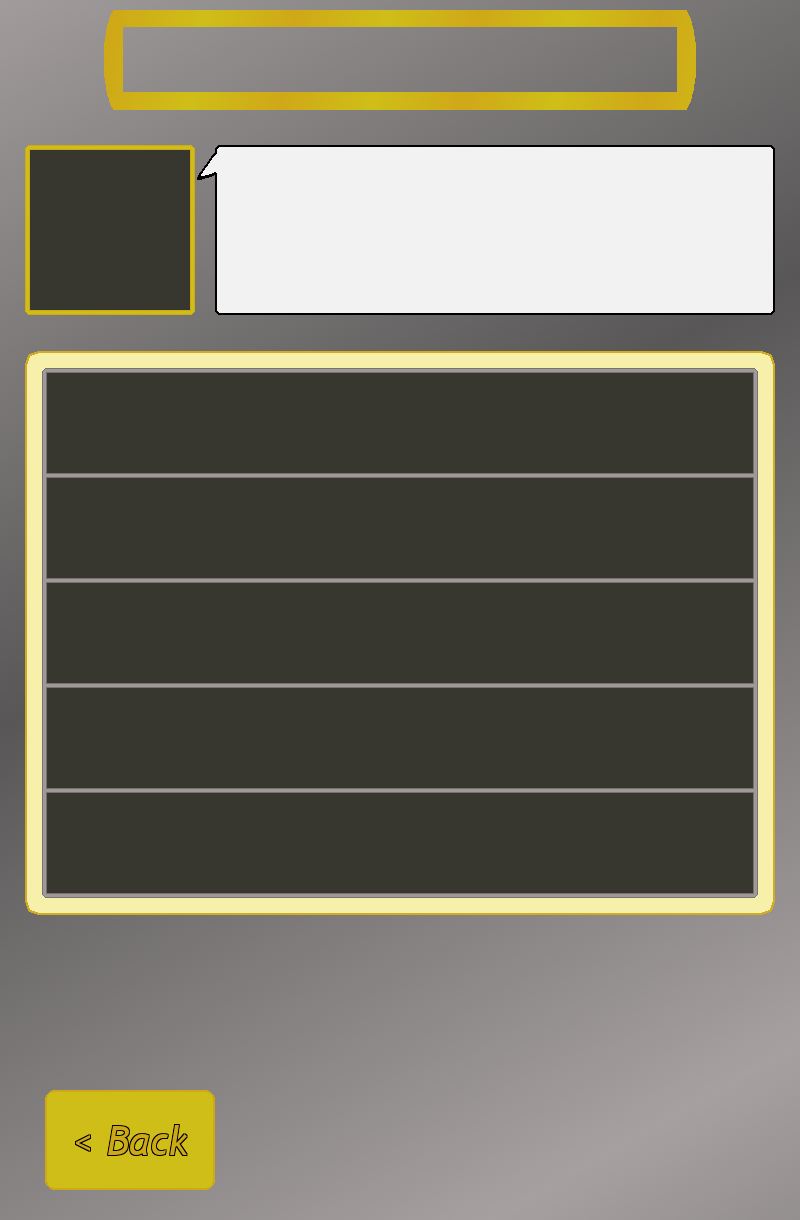
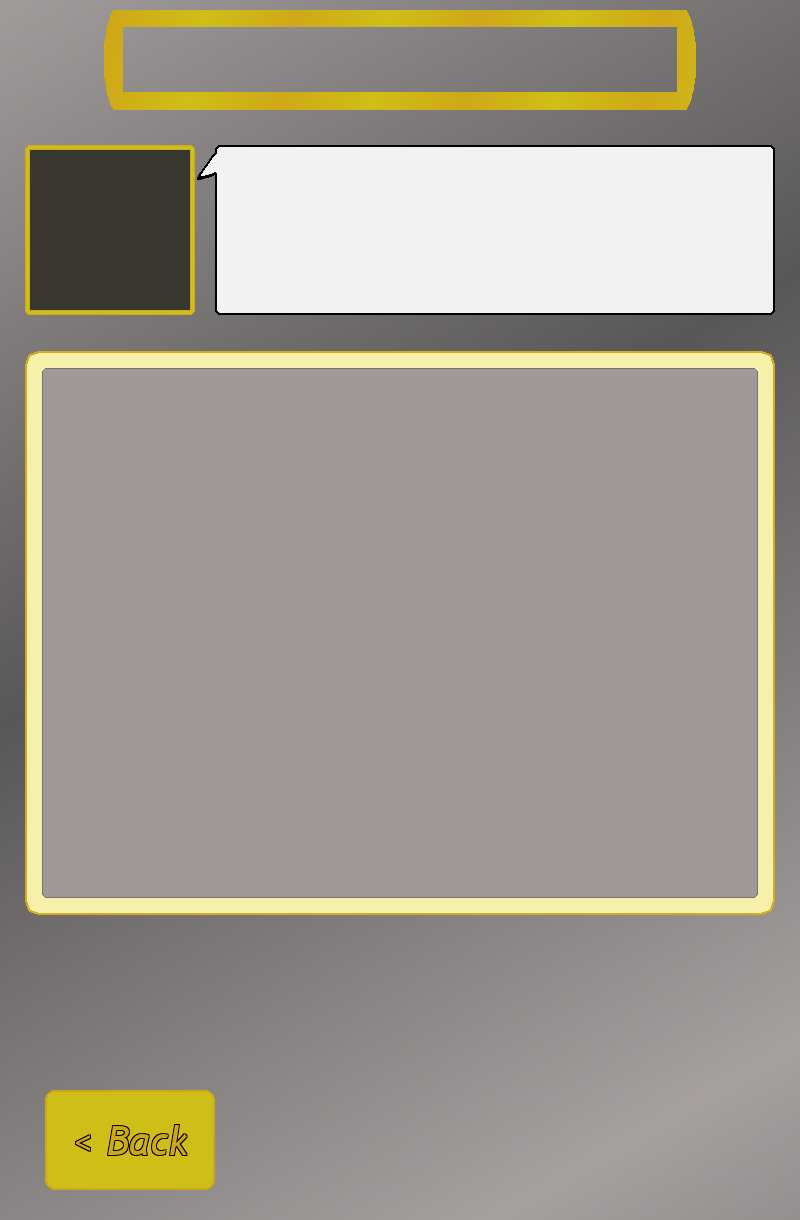
Recruiting Screens only show boxes for actual recruit requirements

diff --git a/app/src/main/java/ultrapoulet/wifeygame/screens/RecruitingScreen.java b/app/src/main/java/ultrapoulet/wifeygame/screens/RecruitingScreen.java
@@ -104,7 +104,17 @@ public class RecruitingScreen extends Screen {
         this.requirementButtons = new ButtonList();
         info = recruit.getRecruitingInfo();
         for(int i = 0; i < info.getRequirements().size(); i++){
-            requirementButtons.addButton(new Button(REQUIREMENT_LEFT_X, REQUIREMENT_RIGHT_X, REQUIREMENT_TOP_Y  + (REQUIREMENT_OFFSET_Y * i), REQUIREMENT_BOT_Y  + (REQUIREMENT_OFFSET_Y * i), true, info.getRequirements().get(i).getDescription()));
+            requirementButtons.addButton(
+                new Button(
+                    REQUIREMENT_LEFT_X,
+                    REQUIREMENT_RIGHT_X,
+                    REQUIREMENT_TOP_Y  + (REQUIREMENT_OFFSET_Y * i),
+                    REQUIREMENT_BOT_Y  + (REQUIREMENT_OFFSET_Y * i),
+                    true,
+                    info.getRequirements().get(i).getDescription(),
+                    Assets.RecruitingHolder
+                )
+            );
         }
 
         titlePaint = new Paint();
@@ -174,6 +184,8 @@ public class RecruitingScreen extends Screen {
         }
 
         basicButtons.drawImage(g);
+
+        requirementButtons.drawImage(g);
 
         ArrayList<RecruitRequirement> reqs = info.getRequirements();
         for (int i = 0; i < reqs.size(); i++) {

diff --git a/app/src/main/java/ultrapoulet/wifeygame/Assets.java b/app/src/main/java/ultrapoulet/wifeygame/Assets.java
@@ -110,6 +110,7 @@ public class Assets {
     public static Image RecruitingScreen;
     public static Image RecruitingButtonEnable, RecruitingButtonDisable;
     public static Image CheckboxComplete, CheckboxIncomplete;
+    public static Image RecruitingHolder;
 
     //Dialog Stuff
     public static Image AbsAdjustableDialogTop;
@@ -278,6 +279,7 @@ public class Assets {
         RecruitingButtonDisable = g.newImage("Recruiting/RecruitButtonDisabled.png", ImageFormat.ARGB8888);
         CheckboxComplete = g.newImage("Recruiting/CheckboxComplete.png", ImageFormat.ARGB8888);
         CheckboxIncomplete = g.newImage("Recruiting/CheckboxIncomplete.png", ImageFormat.ARGB8888);
+        RecruitingHolder = g.newImage("Recruiting/RecruitingHolder.png", ImageFormat.ARGB8888);
 
         AbsAdjustableDialogTop = g.newImage("Dialogs/AbsAdjustableDialogTop.png", ImageFormat.ARGB8888);
         AbsAdjustableDialogMid = g.newImage("Dialogs/AbsAdjustableDialogMid.png", ImageFormat.ARGB8888);
